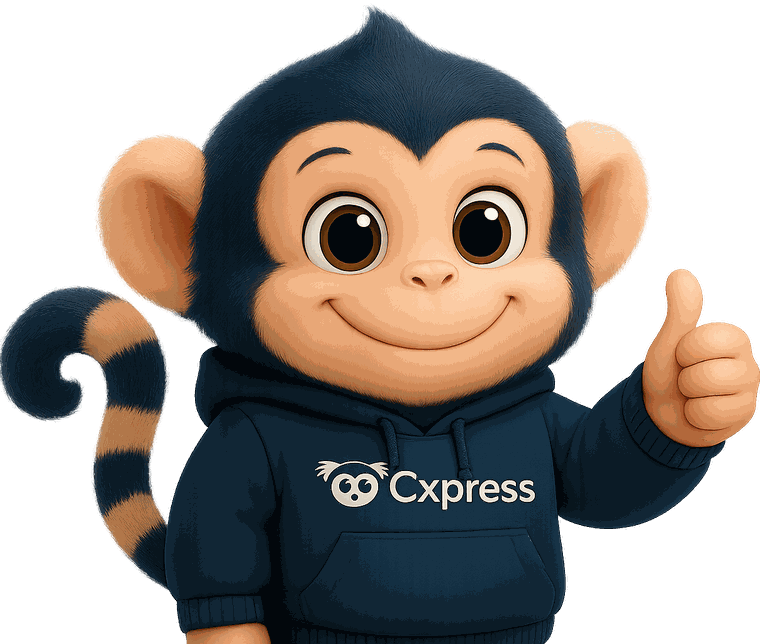
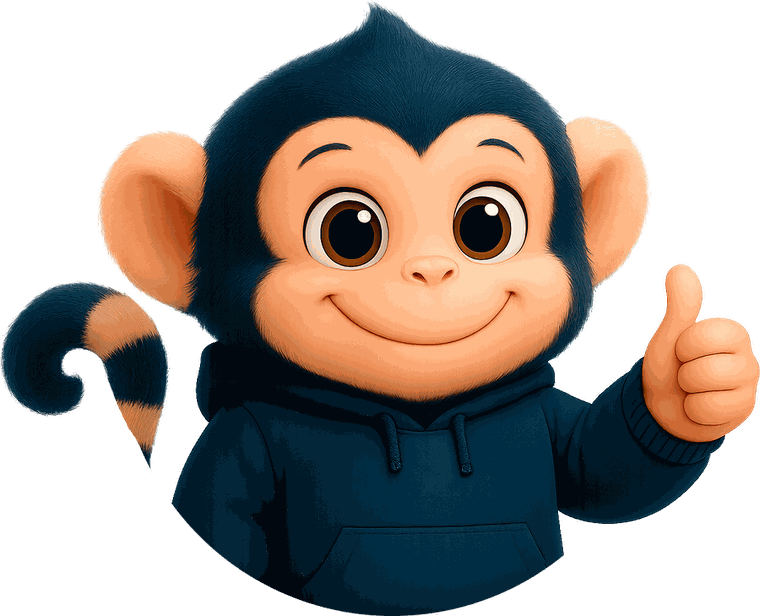
Atualizar mascote e selo do medalhao da LP cadastro-realizado (#331)

diff --git a/landing-pages/cxpress/cadastro-realizado/index.html b/landing-pages/cxpress/cadastro-realizado/index.html
@@ -159,8 +159,9 @@
       aspect-ratio: 1 / 1;
       margin: 0 auto clamp(30px, 4vw, 44px);
     }
-    /* A arte do mascote e um busto cortado reto na base. O disco recorta esse corte
-       (overflow: hidden + bottom negativo), em vez de deixar uma linha dura sob o medalhao. */
+    /* A arte do mascote preenche o disco (cabeca no topo, base embaixo). Ampliada e
+       ancorada embaixo: o disco recorta as pontas largas (o rabo fica de fora), mantendo
+       o rosto e a joinha inteiros. */
     .medalhao__disco {
       position: absolute; inset: 0;
       border-radius: 50%;
@@ -181,19 +182,19 @@
     }
     .medalhao__mascote {
       position: absolute;
-      left: 50%; bottom: -4%;
+      left: 50%; bottom: -3%;
       transform: translateX(-50%);
-      width: 102%;
+      width: 108%;
       height: auto;
       min-height: 0; /* GUIDELINES §14: Safari iOS */
       filter: drop-shadow(0 12px 18px rgba(35, 41, 96, 0.18));
     }
-    /* Selo de confirmacao sobre o medalhao. */
+    /* Selo de confirmacao — fica sobre o canto onde o rabo do mascote e recortado. */
     .medalhao__selo {
       position: absolute;
-      left: -2%; bottom: 16%;
-      width: clamp(52px, 9vw, 64px);
-      height: clamp(52px, 9vw, 64px);
+      left: 5%; bottom: 8%;
+      width: clamp(64px, 11vw, 80px);
+      height: clamp(64px, 11vw, 80px);
       border-radius: 50%;
       background: var(--neutral-0);
       display: grid; place-items: center;
@@ -290,7 +291,7 @@
         <div class="medalhao reveal" aria-hidden="true">
           <div class="medalhao__disco">
             <img class="medalhao__mascote" src="./assets/mascot/samir-joinha-web.png"
-                 alt="" width="760" height="644" decoding="async">
+                 alt="" width="760" height="616" decoding="async">
           </div>
           <div class="medalhao__selo">
             <svg viewBox="0 0 24 24" fill="none" stroke="currentColor" stroke-width="3" stroke-linecap="round" stroke-linejoin="round">

diff --git a/landing-pages/cxpress/cadastro-realizado/README.md b/landing-pages/cxpress/cadastro-realizado/README.md
@@ -29,15 +29,15 @@ O que mudou:
 
 ### Asset do mascote — cópia otimizada local (deliberado)
 
-`brand/cxpress/assets/mascot/samir-joinha.png` tem **2,5 MB** (1536×1024). Numa página cujo único peso
-é essa imagem, isso domina o LCP. A LP referencia `./assets/mascot/samir-joinha-web.png`
-(**84 KB**, 760×644): recorte no bounding box do conteúdo (`126,0,1334,1024`), resize LANCZOS e
-quantização FASTOCTREE em 200 cores com alpha preservado. Sem perda visual perceptível no tamanho
-de exibição (máx. 320px).
+A arte-fonte do mascote é pesada (o `Samir_joinha.svg` enviado em 2026-08-21 é, na verdade, um PNG
+de ~1,5 MB embutido em base64 dentro de um wrapper SVG, com máscara de luminância). Numa página cujo
+único peso é essa imagem, isso dominaria o LCP. A LP referencia `./assets/mascot/samir-joinha-web.png`
+(**76 KB**, 760×616): composição da cor com a máscara alpha do SVG, color-key do halo azul-claro que
+o próprio asset deixava, recorte no bounding box do conteúdo, resize LANCZOS e quantização FASTOCTREE
+em 256 cores com alpha preservado. Sem perda visual perceptível no tamanho de exibição (máx. 320px).
 
 Como o `build_umbrella.py` resolve `brand/` primeiro e só depois `{lp}/assets/`, o nome
-`samir-joinha-web.png` (que **não** existe no brand) garante que a cópia local é a usada. Validado:
-`dist/assets/cxpress/mascot/samir-joinha-web.png` = 84 KB.
+`samir-joinha-web.png` (que **não** existe no brand) garante que a cópia local é a usada.
 
 Se outra LP Cxpress quiser o mesmo tratamento, promover esse arquivo pro brand é a evolução natural,
 mas isso mexeria no asset de 12 LPs que hoje apontam pro PNG pesado, então ficou fora deste escopo.
